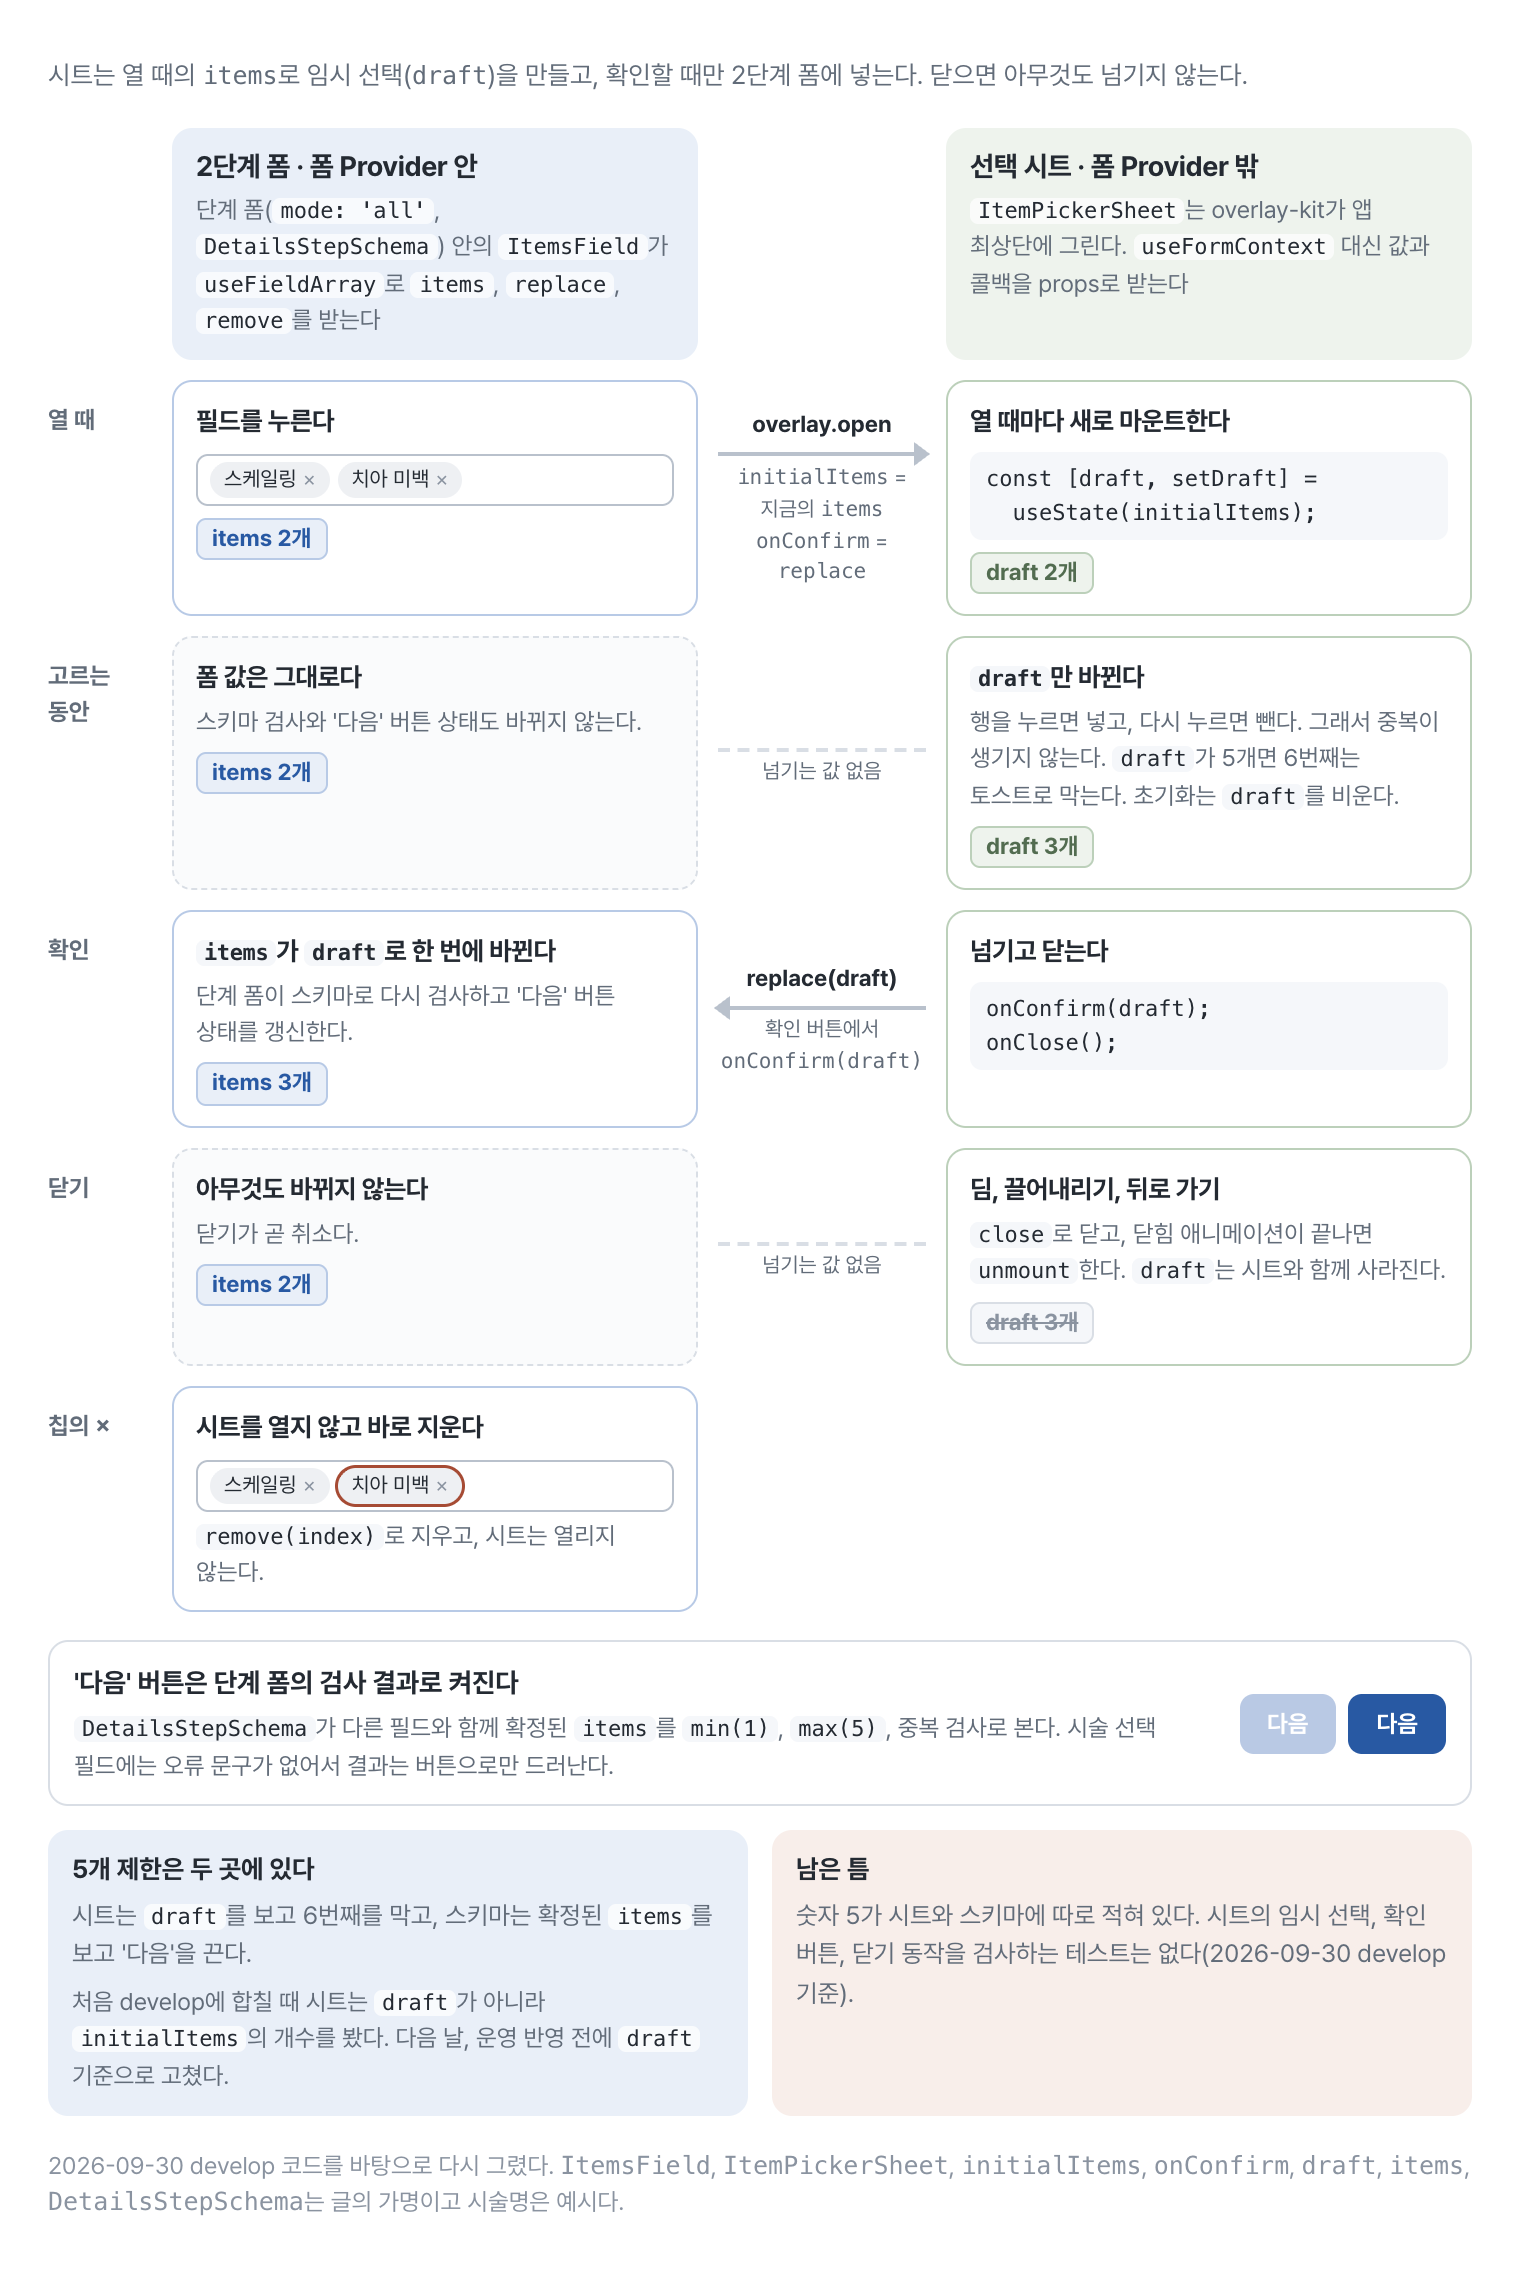
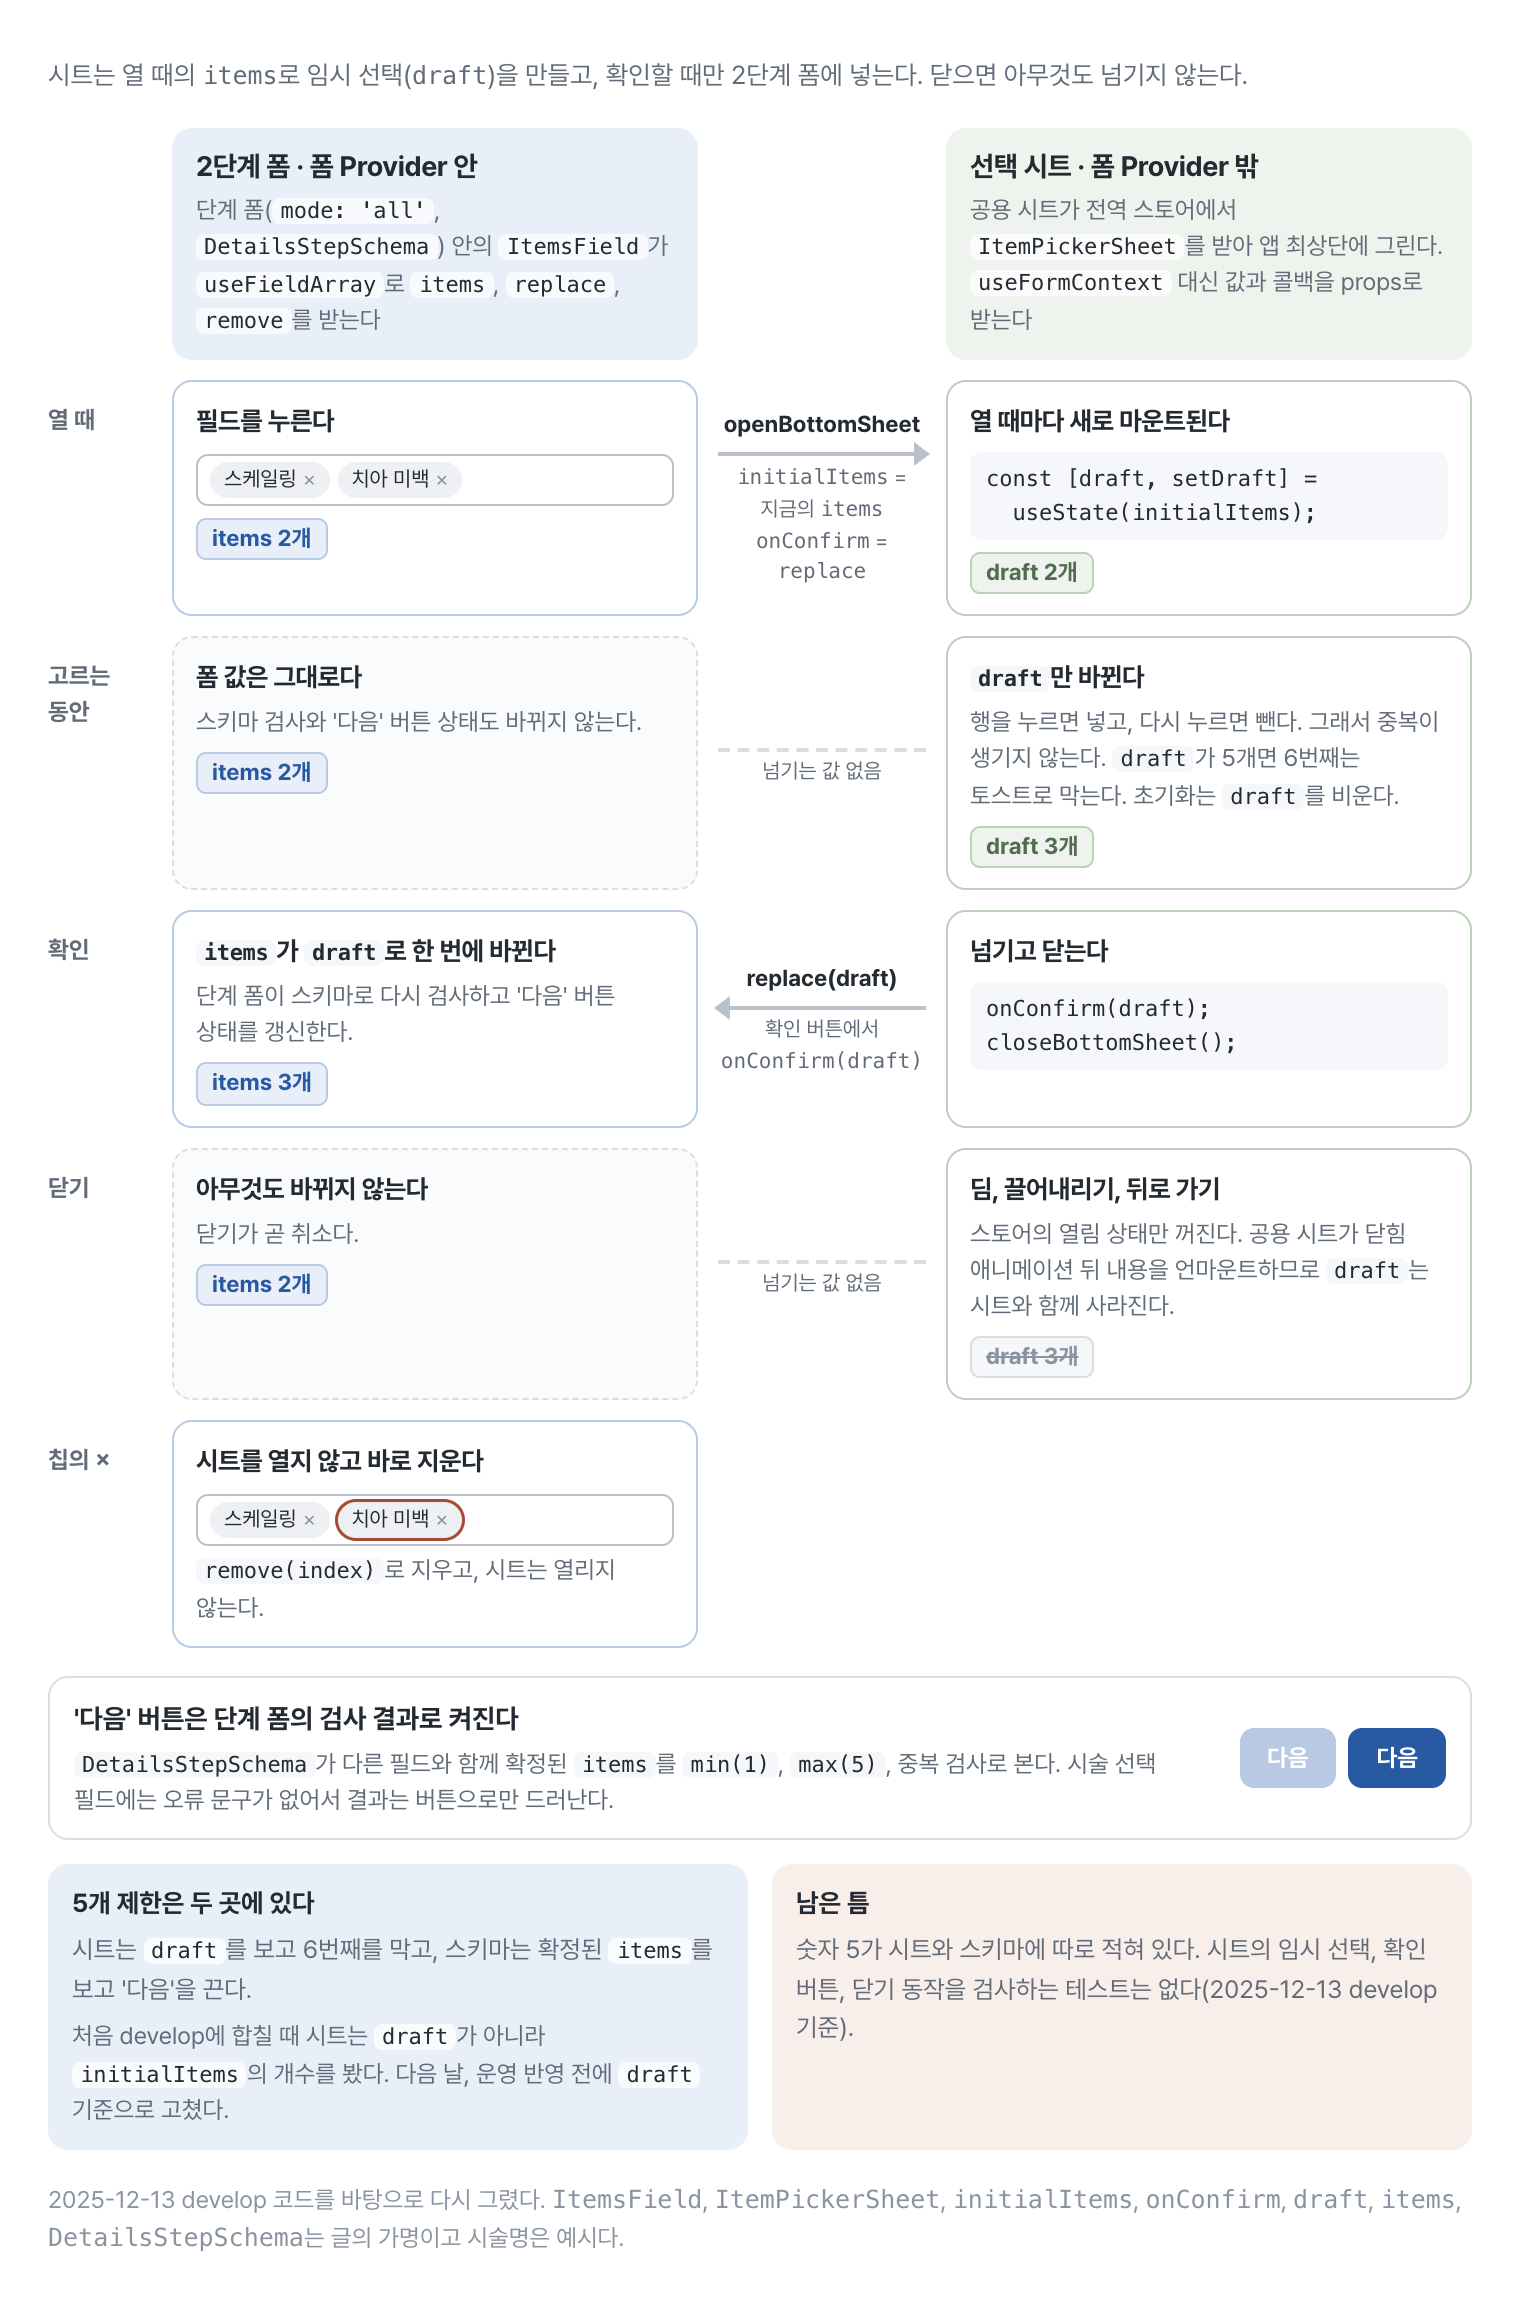
docs(blog): 리뷰 임시 선택 그림을 당시 공용 시트(openBottomSheet) 구조로 맞춘다

diff --git a/blog/assets/figures/review-form/src/02-draft-to-form.html b/blog/assets/figures/review-form/src/02-draft-to-form.html
@@ -65,7 +65,7 @@
   <div class="blank"></div>
   <div class="lane-head form"><b>2단계 폼 · 폼 Provider 안</b><span>단계 폼(<code>mode: 'all'</code>, <code>DetailsStepSchema</code>) 안의 <code>ItemsField</code>가 <code>useFieldArray</code>로 <code>items</code>, <code>replace</code>, <code>remove</code>를 받는다</span></div>
   <div class="blank"></div>
-  <div class="lane-head sheet"><b>선택 시트 · 폼 Provider 밖</b><span><code>ItemPickerSheet</code>는 overlay-kit가 앱 최상단에 그린다. <code>useFormContext</code> 대신 값과 콜백을 props로 받는다</span></div>
+  <div class="lane-head sheet"><b>선택 시트 · 폼 Provider 밖</b><span>공용 시트가 전역 스토어에서 <code>ItemPickerSheet</code>를 받아 앱 최상단에 그린다. <code>useFormContext</code> 대신 값과 콜백을 props로 받는다</span></div>
 
   <!-- 열 때 -->
   <div class="when">열 때</div>
@@ -75,12 +75,12 @@
     <span class="count form">items 2개</span>
   </div>
   <div class="mid">
-    <div class="t">overlay.open</div>
+    <div class="t">openBottomSheet</div>
     <div class="harrow r"></div>
     <div class="s"><code>initialItems</code> = 지금의 <code>items</code><br><code>onConfirm</code> = <code>replace</code></div>
   </div>
   <div class="cell sheet">
-    <b>열 때마다 새로 마운트한다</b>
+    <b>열 때마다 새로 마운트된다</b>
 <pre>const [draft, setDraft] =
   useState(initialItems);</pre>
     <span class="count sheet">draft 2개</span>
@@ -118,7 +118,7 @@
   <div class="cell sheet">
     <b>넘기고 닫는다</b>
 <pre>onConfirm(draft);
-onClose();</pre>
+closeBottomSheet();</pre>
   </div>
 
   <!-- 닫기 -->
@@ -134,7 +134,7 @@ onClose();</pre>
   </div>
   <div class="cell sheet">
     <b>딤, 끌어내리기, 뒤로 가기</b>
-    <p><code>close</code>로 닫고, 닫힘 애니메이션이 끝나면 <code>unmount</code>한다. <code>draft</code>는 시트와 함께 사라진다.</p>
+    <p>스토어의 열림 상태만 꺼진다. 공용 시트가 닫힘 애니메이션 뒤 내용을 언마운트하므로 <code>draft</code>는 시트와 함께 사라진다.</p>
     <span class="count gone">draft 3개</span>
   </div>
 
@@ -159,8 +159,8 @@ onClose();</pre>
 
 <div class="compare">
   <div class="cmp rule"><b>5개 제한은 두 곳에 있다</b>시트는 <code>draft</code>를 보고 6번째를 막고, 스키마는 확정된 <code>items</code>를 보고 '다음'을 끈다.<span class="hist">처음 develop에 합칠 때 시트는 <code>draft</code>가 아니라 <code>initialItems</code>의 개수를 봤다. 다음 날, 운영 반영 전에 <code>draft</code> 기준으로 고쳤다.</span></div>
-  <div class="cmp gap"><b>남은 틈</b>숫자 5가 시트와 스키마에 따로 적혀 있다. 시트의 임시 선택, 확인 버튼, 닫기 동작을 검사하는 테스트는 없다(2026-09-30 develop 기준).</div>
+  <div class="cmp gap"><b>남은 틈</b>숫자 5가 시트와 스키마에 따로 적혀 있다. 시트의 임시 선택, 확인 버튼, 닫기 동작을 검사하는 테스트는 없다(2025-12-13 develop 기준).</div>
 </div>
 
-<p class="foot">2026-09-30 develop 코드를 바탕으로 다시 그렸다. <code>ItemsField</code>, <code>ItemPickerSheet</code>, <code>initialItems</code>, <code>onConfirm</code>, <code>draft</code>, <code>items</code>, <code>DetailsStepSchema</code>는 글의 가명이고 시술명은 예시다.</p>
+<p class="foot">2025-12-13 develop 코드를 바탕으로 다시 그렸다. <code>ItemsField</code>, <code>ItemPickerSheet</code>, <code>initialItems</code>, <code>onConfirm</code>, <code>draft</code>, <code>items</code>, <code>DetailsStepSchema</code>는 글의 가명이고 시술명은 예시다.</p>
 </body></html>
